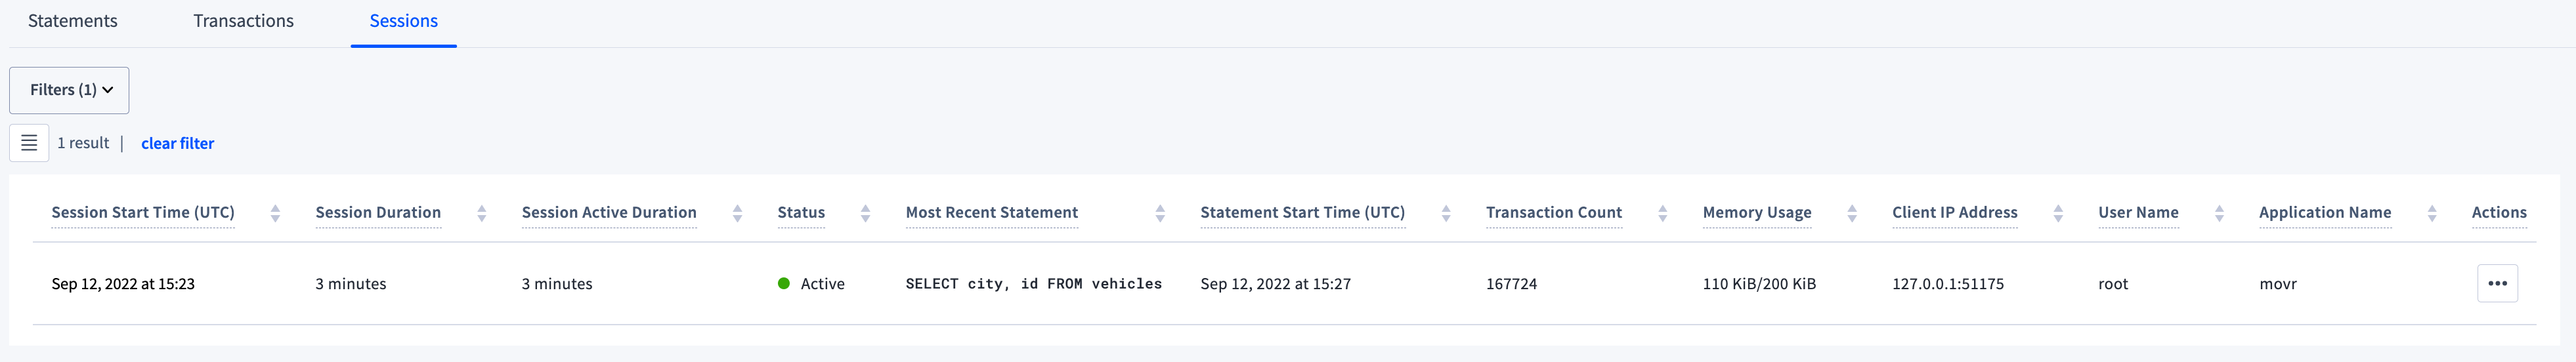
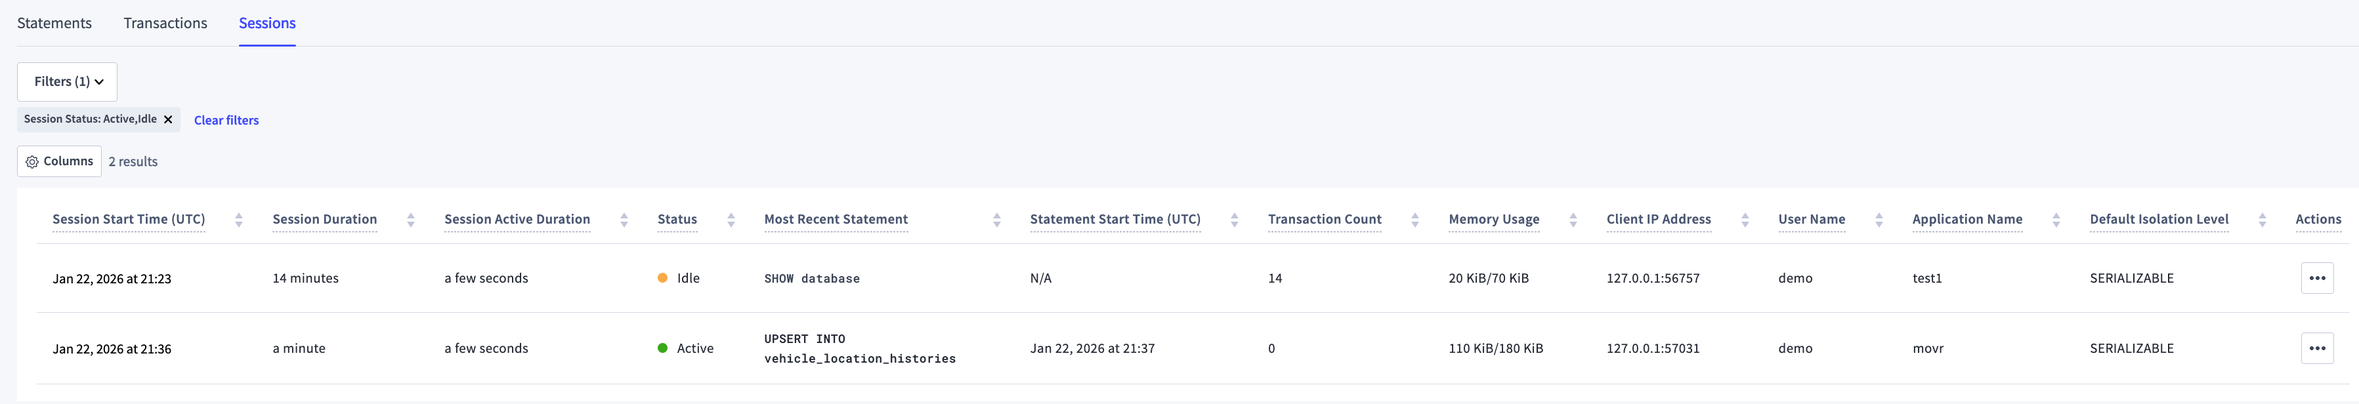
Updated ui-sessions-page.png with default filter.
In sessions.md, updated img links and described default filter.

diff --git a/src/current/_includes/v25.4/ui/sessions.md b/src/current/_includes/v25.4/ui/sessions.md
@@ -1,10 +1,12 @@
 {% if page.cloud != true %}
-<img src="{{ 'images/v24.2/ui-sessions-page.png' | relative_url }}" alt="Sessions Page" style="border:1px solid #eee;max-width:100%" />
+By default, the table is filtered to display active and idle sessions and to exclude closed sessions.
+
+<img src="{{ 'images/v25.4/ui-sessions-page.png' | relative_url }}" alt="Sessions Page" style="border:1px solid #eee;max-width:100%" />
 {% endif %}
 
 To filter the sessions, click the **Filters** field.
 
-<img src="{{ 'images/v24.2/ui-session-filter.png' | relative_url }}" alt="Session filter" />
+<img src="{{ 'images/v25.4/ui-session-filter.png' | relative_url }}" alt="Session filter" />
 
 - To filter by [application]({{ link_prefix }}connection-parameters.html#additional-connection-parameters), select **Application Name** and choose one or more applications.
 
@@ -41,7 +43,7 @@ To view details of a session, click a **Session Start Time (UTC)** to display se
 If a session is idle, the **Transaction** and **Most Recent Statement** panels will display **No Active [Transaction | Statement]**.
 
 {% if page.cloud != true %}
-<img src="{{ 'images/v24.2/ui-sessions-details-page.png' | relative_url }}" alt="Sessions Details Page" style="border:1px solid #eee;max-width:100%" />
+<img src="{{ 'images/v25.4/ui-sessions-details-page.png' | relative_url }}" alt="Sessions Details Page" style="border:1px solid #eee;max-width:100%" />
 {% endif %}
 
 The **Cancel statement** button ends the SQL statement. The session running this statement will receive an error.

diff --git a/src/current/_includes/v26.1/ui/sessions.md b/src/current/_includes/v26.1/ui/sessions.md
@@ -1,10 +1,12 @@
 {% if page.cloud != true %}
-<img src="{{ 'images/v24.2/ui-sessions-page.png' | relative_url }}" alt="Sessions Page" style="border:1px solid #eee;max-width:100%" />
+By default, the table is filtered to display active and idle sessions and to exclude closed sessions.
+
+<img src="{{ 'images/v26.1/ui-sessions-page.png' | relative_url }}" alt="Sessions Page" style="border:1px solid #eee;max-width:100%" />
 {% endif %}
 
 To filter the sessions, click the **Filters** field.
 
-<img src="{{ 'images/v24.2/ui-session-filter.png' | relative_url }}" alt="Session filter" />
+<img src="{{ 'images/v26.1/ui-session-filter.png' | relative_url }}" alt="Session filter" />
 
 - To filter by [application]({{ link_prefix }}connection-parameters.html#additional-connection-parameters), select **Application Name** and choose one or more applications.
 
@@ -41,7 +43,7 @@ To view details of a session, click a **Session Start Time (UTC)** to display se
 If a session is idle, the **Transaction** and **Most Recent Statement** panels will display **No Active [Transaction | Statement]**.
 
 {% if page.cloud != true %}
-<img src="{{ 'images/v24.2/ui-sessions-details-page.png' | relative_url }}" alt="Sessions Details Page" style="border:1px solid #eee;max-width:100%" />
+<img src="{{ 'images/v26.1/ui-sessions-details-page.png' | relative_url }}" alt="Sessions Details Page" style="border:1px solid #eee;max-width:100%" />
 {% endif %}
 
 The **Cancel statement** button ends the SQL statement. The session running this statement will receive an error.
